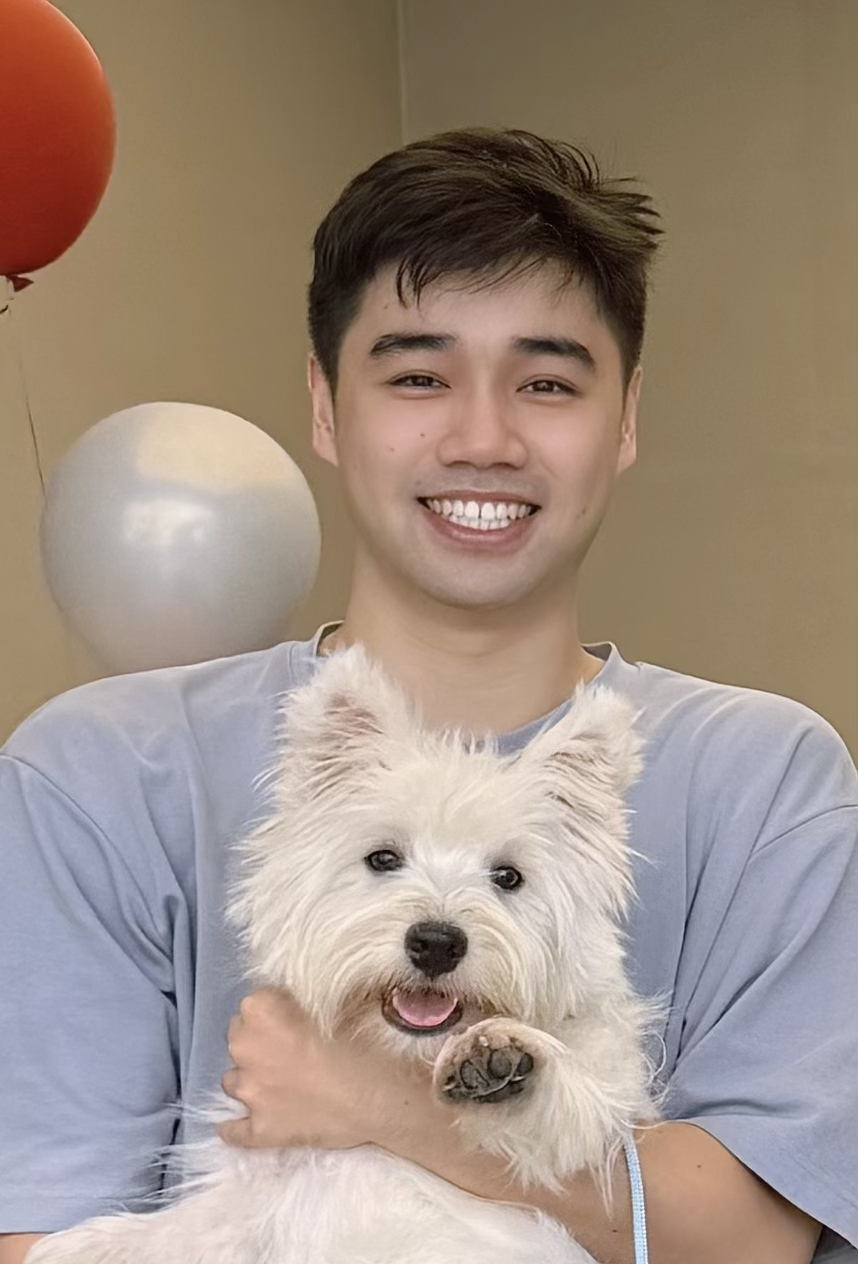
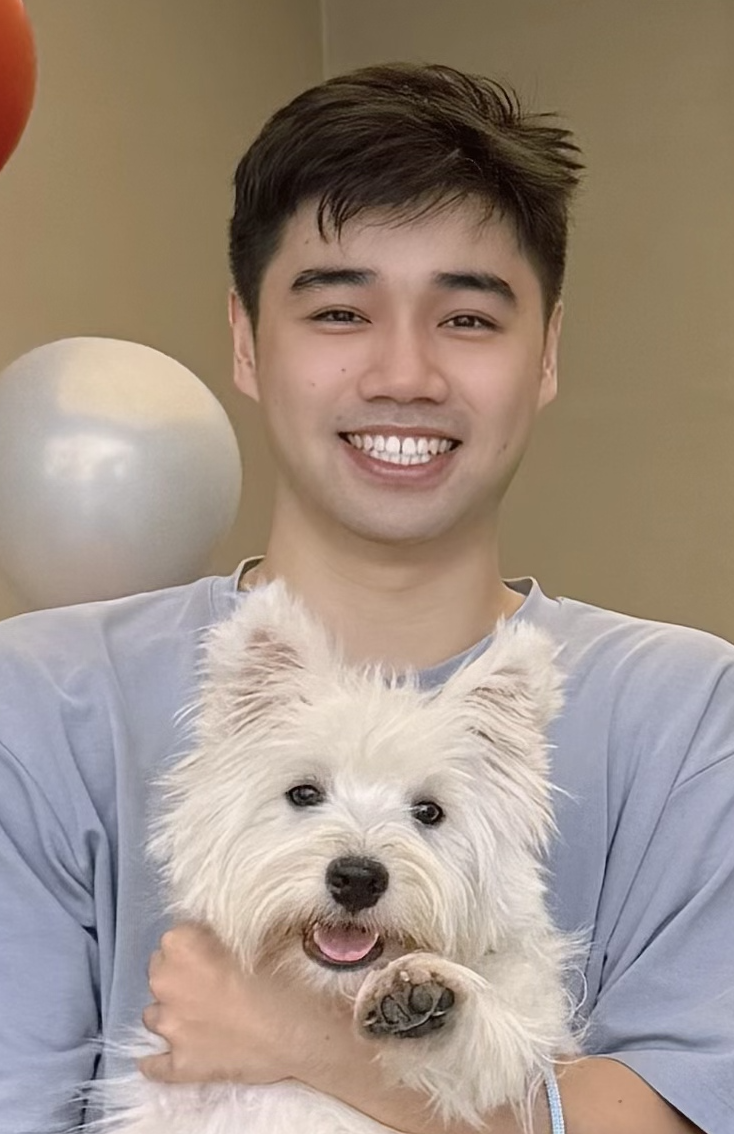
Remove compromised polyfill.io CDN script

diff --git a/projects.html b/projects.html
@@ -1,0 +1,95 @@
+<!DOCTYPE html>
+<html lang="en">
+
+<head>
+    <meta charset="utf-8" />
+    <meta name="viewport" content="width=device-width, initial-scale=1, shrink-to-fit=no" />
+    <meta name="description" content="Projects" />
+    <meta name="author" content="senli1073" />
+    <title>Projects - Xujia Li</title>
+
+    <!-- Icon -->
+    <link rel="icon" type="image/x-icon" href="static/assets/favicon.ico" />
+
+    <!-- Bootstrap icons-->
+    <link href="https://cdn.jsdelivr.net/npm/bootstrap-icons@1.5.0/font/bootstrap-icons.css" rel="stylesheet" />
+
+    <!-- Google fonts-->
+    <link rel="preconnect" href="https://fonts.gstatic.com" />
+    <link href="https://fonts.googleapis.com/css2?family=Newsreader:ital,wght@0,600;1,600&amp;display=swap"
+        rel="stylesheet" />
+    <link
+        href="https://fonts.googleapis.com/css2?family=Mulish:ital,wght@0,300;0,500;0,600;0,700;1,300;1,500;1,600;1,700&amp;display=swap"
+        rel="stylesheet" />
+    <link href="https://fonts.googleapis.com/css2?family=Kanit:ital,wght@0,400;1,400&amp;display=swap"
+        rel="stylesheet" />
+
+    <!-- Core theme CSS (includes Bootstrap)-->
+    <link type="text/css" href="static/css/styles.css" rel="stylesheet" />
+    <link type="text/css" href="static/css/main.css" rel="stylesheet" />
+
+    <!-- Bootstrap core JS-->
+    <script type="text/javascript" src="static/js/bootstrap.bundle.min.js"></script>
+</head>
+
+<body id="page-top">
+    <!-- Navigation-->
+    <nav class="header navbar navbar-expand-lg navbar-light fixed-top shadow-sm" id="mainNav">
+        <div class="container px-5">
+            <a class="navbar-brand fw-bold" href="index.html">Xujia Li</a>
+            <button class="navbar-toggler" type="button" data-bs-toggle="collapse" data-bs-target="#navbarResponsive"
+                aria-controls="navbarResponsive" aria-expanded="false" aria-label="Toggle navigation">
+                MENU
+                <i class="bi-list"></i>
+            </button>
+            <div class="collapse navbar-collapse" id="navbarResponsive">
+                <ul class="navbar-nav ms-auto me-4 my-3 my-lg-0">
+                    <li class="nav-item">
+                        <a class="nav-link me-lg-3" href="index.html">ABOUT ME</a>
+                    </li>
+                    <li class="nav-item">
+                        <a class="nav-link me-lg-3" href="index.html#publications">PUBLICATIONS</a>
+                    </li>
+                    <li class="nav-item">
+                        <a class="nav-link me-lg-3" href="index.html#positionopening">POSITION OPENING</a>
+                    </li>
+                    <li class="nav-item">
+                        <a class="nav-link me-lg-3" href="projects.html">PROJECTS</a>
+                    </li>
+                </ul>
+            </div>
+        </div>
+    </nav>
+
+    <!-- Top Section -->
+    <section class="top-section" style="background-image: url('static/assets/img/background.jpeg');">
+        <div class="top-section-content">
+            <div class="container px-5">
+                <h2 class="text-white display-3 lh-1 font-alt">Projects</h2>
+            </div>
+        </div>
+    </section>
+
+    <!-- Projects Content -->
+    <section class="bg-gradient-primary-to-secondary-light mt5 md5" id="projects">
+        <div class="container px-5">
+            <header>
+                <h2><i class="bi bi-folder-fill"></i>&nbsp;PROJECTS</h2>
+            </header>
+            <div class="main-body">
+                <p>Coming soon...</p>
+            </div>
+        </div>
+    </section>
+
+    <!-- Footer-->
+    <footer class="bg-bottom text-center py-5">
+        <div class="container px-5">
+            <div class="text-white-50 small">
+                <div class="mb-2">&copy; Xujia Li 2026. All Rights Reserved.</div>
+            </div>
+        </div>
+    </footer>
+</body>
+
+</html>

diff --git a/index.html b/index.html
@@ -31,9 +31,6 @@
     <!-- Bootstrap core JS-->
     <script type="text/javascript" src="static/js/bootstrap.bundle.min.js"></script>
 
-    <!-- For Compatability -->
-    <script src="https://polyfill.io/v3/polyfill.min.js?features=es6"></script>
-    
     <!-- Markdown -->
     <script type="text/javascript" src="static/js/marked.min.js"></script>
 
@@ -91,13 +88,16 @@
             <div class="collapse navbar-collapse" id="navbarResponsive">
                 <ul class="navbar-nav ms-auto me-4 my-3 my-lg-0">
                     <li class="nav-item">
-                        <a class="nav-link me-lg-3" href="#page-top">HOME</a>
+                        <a class="nav-link me-lg-3" href="#page-top">ABOUT ME</a>
                     </li>
                     <li class="nav-item">
                         <a class="nav-link me-lg-3" href="#publications">PUBLICATIONS</a>
                     </li>
                     <li class="nav-item">
                         <a class="nav-link me-lg-3" href="#positionopening">POSITION OPENING</a>
+                    </li>
+                    <li class="nav-item">
+                        <a class="nav-link me-lg-3" href="projects.html">PROJECTS</a>
                     </li>
 
                 </ul>

diff --git a/static/css/main.css b/static/css/main.css
@@ -108,5 +108,3 @@ section .main-body{
         margin: 0;
     }
 }
-
-